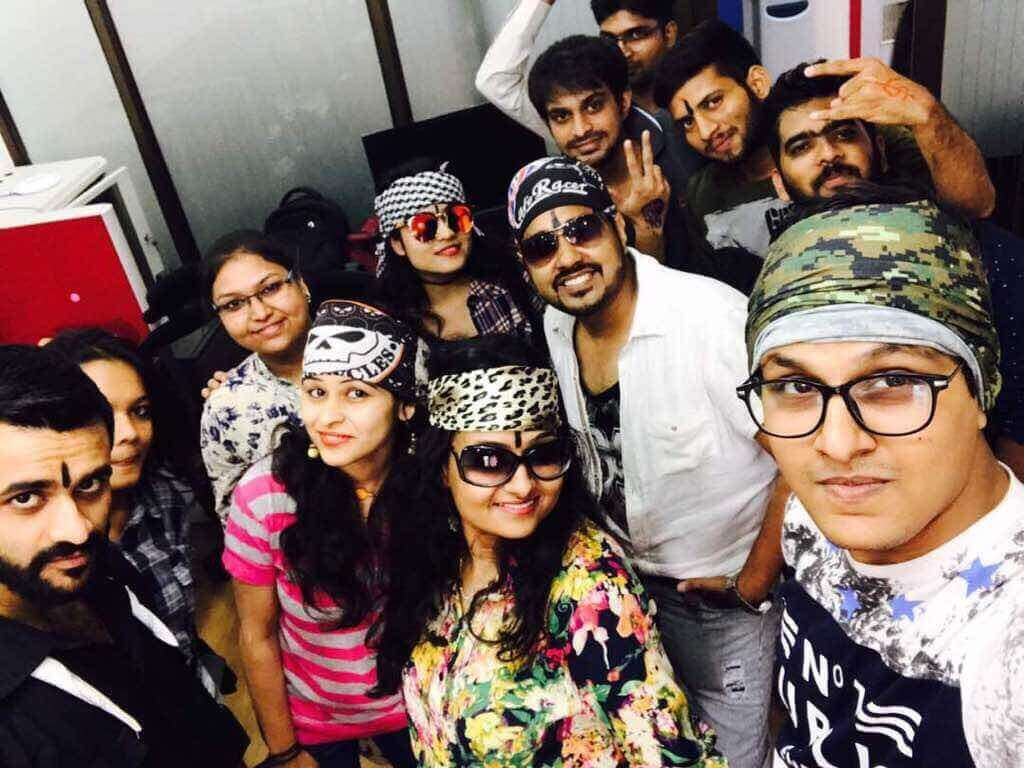
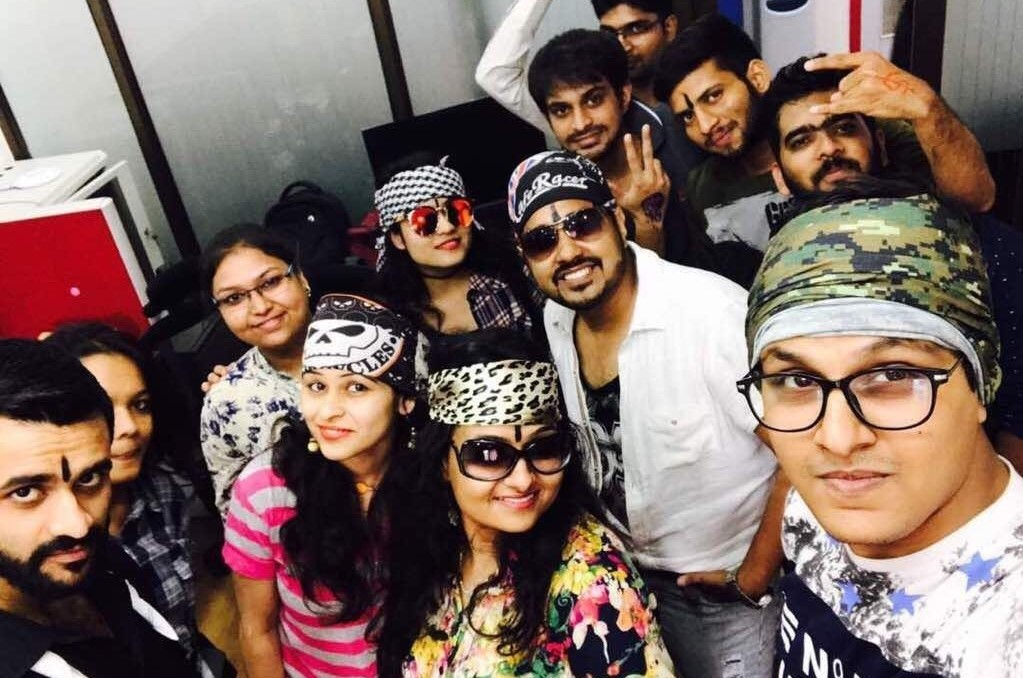
slider images cropped

diff --git a/css/careers.css b/css/careers.css
@@ -222,15 +222,8 @@
 	object-fit: cover;
 	max-width: initial;
 }
-.gallery-blog .owl-carousel, .owl-carousel.owl-loaded {
-	display: flex;
-}
 .owl-item {
 	width: 100%;
-}
-#slider2 .item {
-	width: 100%;
-	height: 200px;
 }
 a.social-icon {
 	width: 34px;
@@ -255,7 +248,6 @@ a.youtube-icon {
     display: inline-block;
     width: 29px;
     height: 29px;
-    /* margin-left: 3px; */
     background-image: url(../images/sprite/youtube-icon.png);
 }
 a.youtube-icon:hover {
@@ -388,14 +380,11 @@ a.slideshare-icon {
 	opacity: 0;
 }
 .card-hover:hover .card-heading {
-	/* transform: translate(-50%,-70%); */
 	top: 50%;
 	transition: 0.3s all;
-	/* transition-delay: 1s; */
 }
 .card-hover:hover .card-heading p {
 	opacity: 1;
-	/* top: 60%; */
 	transition: 1s all;
 	transition-delay: 0.4s;
 }
@@ -499,7 +488,6 @@ a.slideshare-icon {
 		background-position: 0% 20%;
 		background-size: contain;
 	}
-
 }
 @media (max-width: 600px) {
 	.mar-35-0 {
